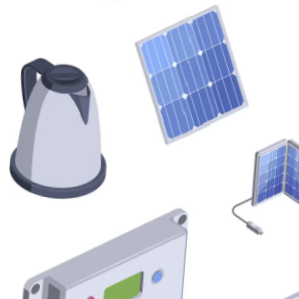
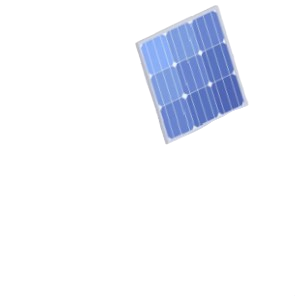
class Build menu erstellt aber ohne build png button toggled das build menu build pngs

diff --git a/index.py b/index.py
@@ -14,7 +14,7 @@ WIDTH  = 1200
 HEIGHT = 800
 
 TITLE = "FeiniSpaceAgency"
-creditMsg = "Game developed by:\nShahin Youssef Baydoun\n Graphics by:\nShahin Youssef Baydoun\nMoralische Unterstützung:\nAlinchen Bienchen :)\ntest"
+creditMsg = "Game developed by:\nShahin Youssef Baydoun\nIdea by:\nMe\nGraphics by:\nMyself\nTested by:\nand I\nMoralische Unterstützung:\nAlinchen Bienchen :)\ntest"
 
 #Buttons im Menübereich
 menuLibrary = {"menu_items": ["Start New Game", "Continue Game", "Settings", "Credits", "Quit"],
@@ -49,14 +49,14 @@ tiles = {
     2: "surface_medium",
     3: "surface_dark",
 }
-solar = pygame.image.load("images/solar-removebg-preview(1).png")
+solar = pygame.image.load("images/solar.png")
 base = pygame.image.load("images/base.png")
 rocket = pygame.image.load("images/rocket.png")
 
 
 #-------------------------------------------
 #Scenen Manager
-class SceneManager:
+class SceneManager():
     def __init__(self, start_scene):
         self.scene = start_scene
         self.scene.on_enter()
@@ -262,7 +262,7 @@ class Button():
         self.rect.center = pos
 
 #Button gruppe die sich scrollen lässt
-class ScrollableButtons:
+class ScrollableButtons():
     def __init__(self):
         self.buttons = []
         self.upper_bound = 0
@@ -333,7 +333,7 @@ class IconButton(Button):
         super().set_position(pos)
 
 #Icons
-class Icon:
+class Icon():
     def __init__(self, source, position, size=icon_size, bg_color=(20, 20, 35), border_color=(80, 80, 120)):
         if isinstance(source, str):
             source = images.load(source)
@@ -360,6 +360,90 @@ class Icon:
     def move(self, dx, dy):
         x, y = self.position
         self.position = (x + dx, y + dy)
+
+#Build Menu in der HomeBase Szene
+class BuildMenu():
+    def __init__(self, items: list[str]):
+        self.items = items
+        self.visible = False
+        self.rect = pygame.Rect(0, 0, 240, 280)
+        self.rect.topright = (WIDTH - 10, 10)
+        self.buttons: list[Button] = []
+        self.setup_buttons()
+
+    def setup_buttons(self):
+        self.buttons.clear()
+        for i, text in enumerate(self.items):
+            center = (
+                self.rect.left + self.rect.width // 2,
+                self.rect.top + 90 + i * 60
+            )
+            button = Button(
+                text,
+                center,
+                width=self.rect.width - 20,
+                height=44,
+                border_radius=12,
+                target_alpha_a=120,
+                target_alpha_b=220,
+                r_inside=40,
+                g_inside=55,
+                b_inside=70,
+                r_outline=120,
+                g_outline=190,
+                b_outline=255
+            )
+            self.buttons.append(button)
+
+    def set_items(self, items: list[str]):
+        self.items = items
+        self.setup_buttons()
+
+    def add_item(self, text: str):
+        self.items.append(text)
+        self.setup_buttons()
+
+    def toggle(self):
+        self.visible = not self.visible
+
+    def open(self):
+        self.visible = True
+
+    def close(self):
+        self.visible = False
+
+    def draw(self):
+        if not self.visible:
+            return
+
+        pygame.draw.rect(screen.surface, (20, 20, 30, 220), self.rect, border_radius=12)
+        pygame.draw.rect(screen.surface, (140, 180, 230), self.rect, 2, border_radius=12)
+        screen.draw.text(
+            "Build Menu",
+            (self.rect.left + 16, self.rect.top + 16),
+            fontsize=26,
+            color="white"
+        )
+
+        for button in self.buttons:
+            button.draw()
+
+    def update(self):
+        if not self.visible:
+            return
+
+        for button in self.buttons:
+            button.update()
+
+    def handle_click(self, pos):
+        if not self.visible:
+            return None
+
+        for button in self.buttons:
+            if button.clicked(pos):
+                return button.text
+
+        return None
 
 
 #-------------------------------------------
@@ -725,13 +809,24 @@ class GameScene():
         rect = pygame.Rect(0, 0, 50, 50)
         rect.center = (WIDTH - 40, 40)
         return rect
+    def build_menu_rect(self):
+        rect = pygame.Rect(0, 0, 200, 300)
+        rect.topright = (WIDTH - 10, 10)
+        build_surface = pygame.Surface(rect.size, pygame.SRCALPHA)
+        pygame.draw.rect(build_surface, (20, 20, 30, 200), build_surface.get_rect(), border_radius=10)
+        screen.surface.blit(build_surface, rect.topleft)
+        return rect
     def draw_corner_buttons(self):
         self.left_corner_button.icon = self.get_lcorner_button_icon()
         self.left_corner_button.draw()
-
         if isinstance(self, GameHomeBase):
+            # draw the build menu first so the corner button stays on top
+            if hasattr(self, "build_menu"):
+                self.build_menu.draw()
+
             self.right_corner_button.icon = self.get_rcorner_button_icon()
             self.right_corner_button.draw()
+            
     
 
     def draw_ui(self):
@@ -745,6 +840,8 @@ class GameScene():
     def update(self):
         self.left_corner_button.update()
         self.right_corner_button.update()
+        if hasattr(self, "build_menu"):
+            self.build_menu.update()
 
     def on_enter(self):
         pass
@@ -761,7 +858,12 @@ class GameScene():
             else:
                 manager.change_scene(GameHomeBase(save_path=self.save_path))
         elif button == mouse.LEFT and self.get_rcorner_button_rect().collidepoint(pos) and isinstance(self, GameHomeBase):
-            print("Build menu opened")
+            if hasattr(self, "build_menu"):
+                self.build_menu.toggle()
+        elif hasattr(self, "build_menu"):
+            clicked_item = self.build_menu.handle_click(pos)
+            if clicked_item:
+                print(f"Build menu item clicked: {clicked_item}")
 
 #Scene Game Base
 class GameHomeBase(GameScene):
@@ -769,6 +871,8 @@ class GameHomeBase(GameScene):
     def __init__(self, save_path: str=None):
 
         super().__init__(save_path)
+
+        self.build_menu = BuildMenu(["Solar", "Base", "Rocket"])
 
         self.save_path = save_path
 
@@ -894,6 +998,8 @@ class GameHomeBase(GameScene):
         x, y = attr_json(self.save_path, "start_modul_pos", "base")
         screen_x, screen_y = self.iso_to_screen(x, y)
         screen.surface.blit(self.base_scaled, (screen_x - TILE_WIDTH // 2, screen_y - TILE_HEIGHT // 2))
+
+
 
         self.draw_ui()
 
@@ -1154,14 +1260,6 @@ def draw():
 #frames
 def update():
     manager.update()
-
-with open("save_format.json", "r", encoding="utf-8") as f:
-    data = json.load(f)
-print(type(data))
-data["name"] = "test2"
-data["created"] = time.strftime("%Y%m%d%H%M%S", time.gmtime())
-data["seed"] = 123456
-print(data)
 
 #go
 pgzrun.go()